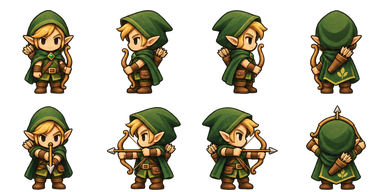
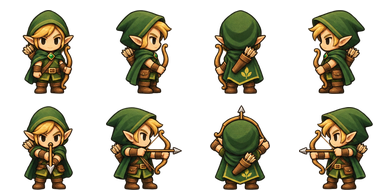
fix(art): align elf I atlas columns with the elf renderer

diff --git a/flowforge/sets/village/README.md b/flowforge/sets/village/README.md
@@ -17,7 +17,7 @@
 
 게임용 PNG는 총 **38개**다. 건물 후면/전면 20장, 인물 및 개틀링 무기의 4방향×2포즈 아틀라스 18장(144프레임)이다. 각 폴더의 `meta.json`이 해당 형식·방향 순서·기준점·레이어 순서를 설명한다.
 
-- 기본 아처 I/II와 엘프 I: 256×256 건물, 384×192 캐릭터 시트, 96×96 셀. 열은 정면/왼쪽/오른쪽/후면이다.
+- 기본 아처 I/II와 엘프 I: 256×256 건물, 384×192 캐릭터 시트, 96×96 셀. **인간 I/II의 열은 정면/왼쪽/오른쪽/후면, 엘프 I의 열은 정면/오른쪽/후면/왼쪽**이다. 같은 셀 크기여도 방향 순서는 다르다.
 - 엘프 II·정령·룬·드워프 I/II·개틀링·저격수: 256×256 건물, 1024×512 인물/무기 시트, 256×256 셀. 열은 정면/오른쪽/후면/왼쪽이다. 셀 안의 그림 위치 자체가 건물과 정렬되어 있으므로 임의 크롭하지 않는다.
 - 모든 시트의 첫 행은 대기, 둘째 행은 공격 또는 작업 포즈다. 각 방향은 별도 원화이며 좌우 반전으로 대체하지 않았다.
 - 정령·룬·저격수는 1명, 일반 2인 타워는 2명이다. 개틀링은 사수·장전수·회전포 3개 시트를 사용한다. 원격 원본 경로 `gatling_actor_0`은 장전수, `gatling_actor_1`은 사수, `gatling_actor_2`는 회전포다.
